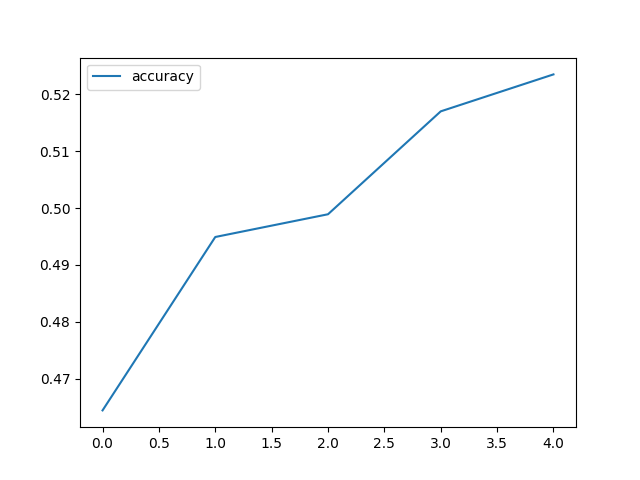
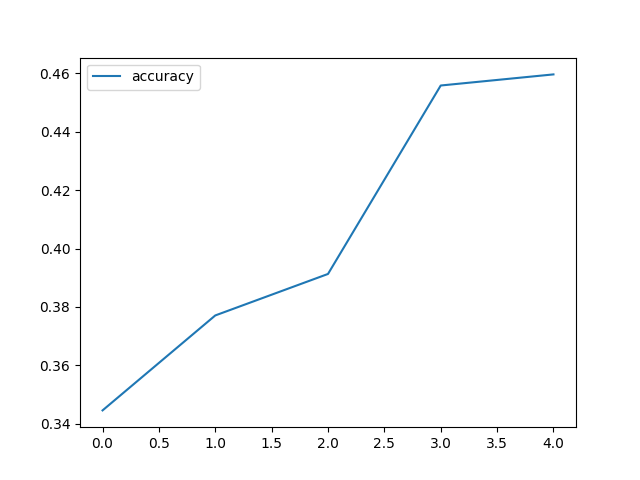
pre comments

diff --git a/uvadlc_practicals_2020-master/assignment_1/1_mlp_cnn/code/mlp_pytorch.py b/uvadlc_practicals_2020-master/assignment_1/1_mlp_cnn/code/mlp_pytorch.py
@@ -38,23 +38,19 @@ class MLP(nn.Module):
         # PUT YOUR CODE HERE  #
         #######################
         super().__init__()
-        self.n_inputs = n_inputs
-        self.n_hidden = n_hidden
-        self.n_clases = n_classes
+        # self.n_inputs = n_inputs
+        # self.n_hidden = n_hidden
+        # self.n_clases = n_classes
         self.layers = nn.ModuleList()
-
         in_features = n_inputs
-        layer_id = 1
         for n_units in n_hidden:
-          self.layers.append(nn.BatchNorm1d(in_features))
+          # self.layers.append(nn.BatchNorm1d(in_features))
           self.layers.append(nn.Linear(in_features, n_units))
           self.layers.append(nn.ReLU())
           in_features = n_units
-          layer_id += 1
-        self.layers.append(nn.BatchNorm1d(in_features))
+        # self.layers.append(nn.BatchNorm1d(in_features))
         output_layer = nn.Linear(in_features, n_classes)
         self.layers.append(output_layer)
-        # self.layers.append(nn.LogSoftmax(dim=1))
         ########################
         # END OF YOUR CODE    #
         #######################
